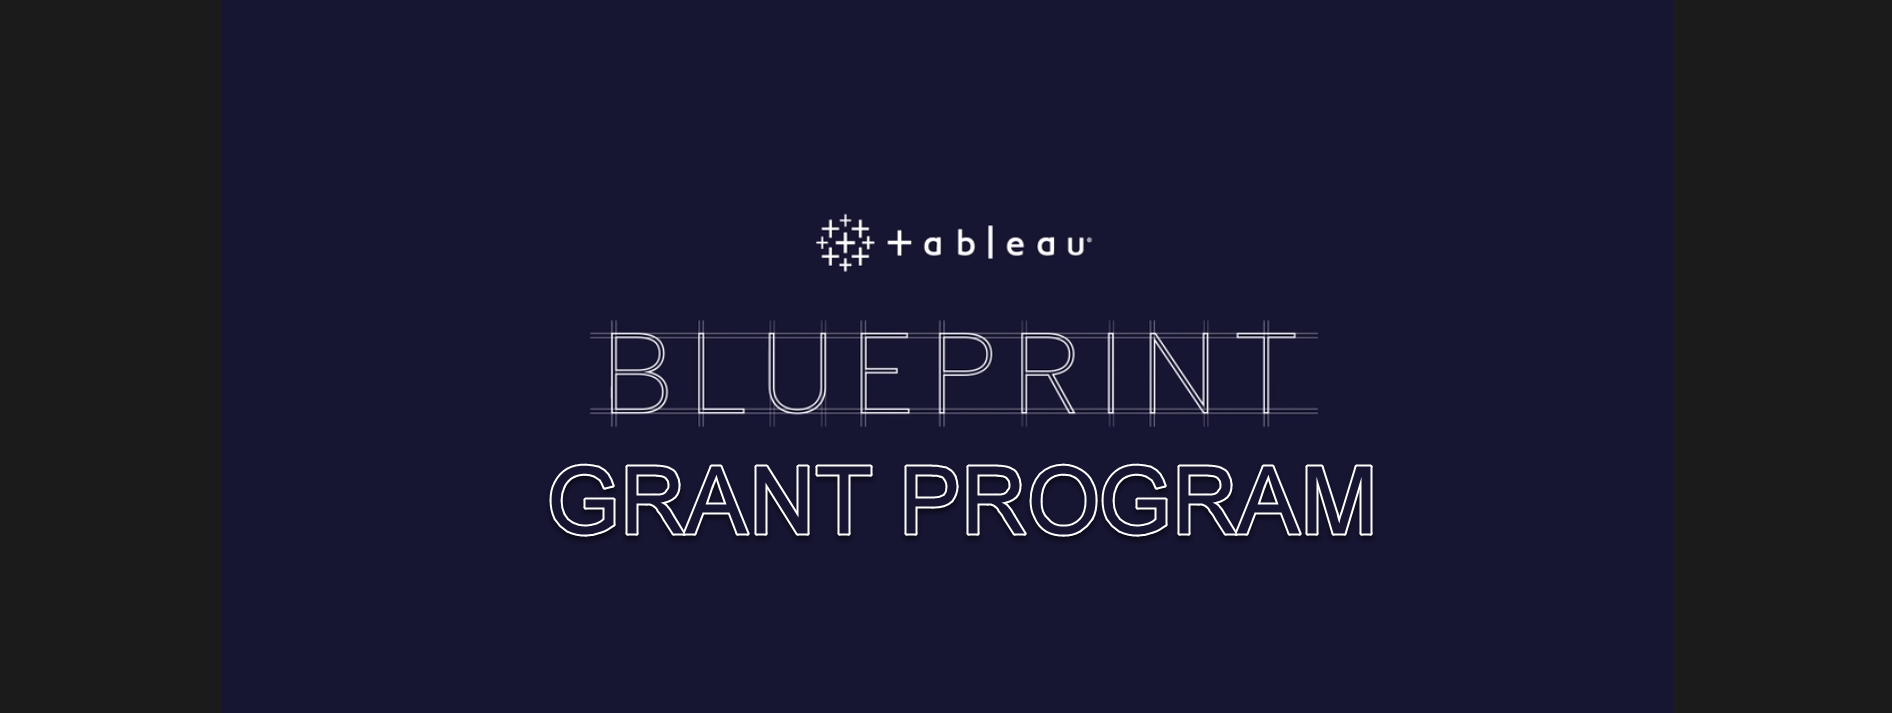
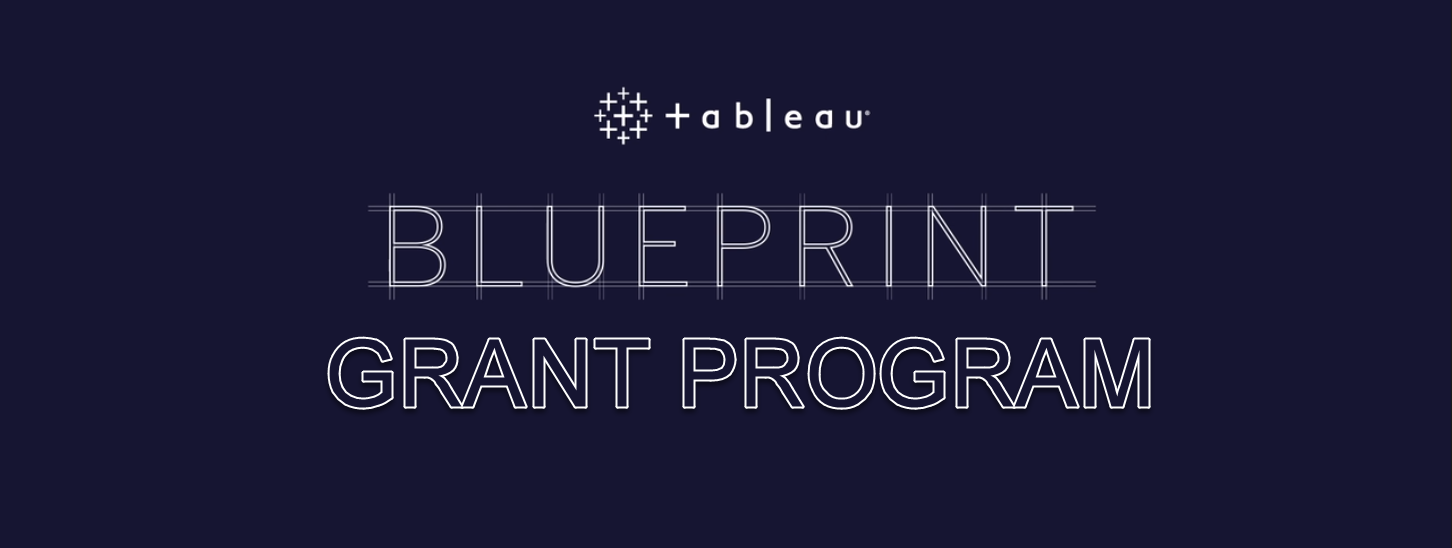
Add files via upload

Changed region(s): [[0.2169, 0.3102, 0.8058, 0.7755], [0.4029, 0.1551, 0.5888, 0.2792]]

diff --git a/BlueprintGrant.html b/BlueprintGrant.html
@@ -1,21 +1,103 @@
-
 <HTML>
 <HEAD>
   <TITLE>Tableau Blueprint Grant Program</TITLE>
   
   <link rel="shortcut icon" href="https://raw.githubusercontent.com/ggani-tableau/BlueprintGrant/db52e956366b489efdd2da2fb22392b8dec91508/tableau_logo.ico" type="image/x-icon"/>
-
+<STYLE>
+A {
+	text-decoration: none;
+	color: #7A8E95;
+	
+}		
+</STYLE>
 </HEAD>
 
 <BODY>
 
+<div style="
+	font-size: .8rem;
+	text-decoration: none;
+	box-sizing: inherit; 
+	font-family:Benton Sans Book,Helvetica,sans-serif; 
+	display: block;
+    list-style-type: disc;
+    margin-block-start: 1em;
+    margin-block-end: 1em;
+    margin-inline-start: 0px;
+    margin-inline-end: 0px;
+    padding-inline-start: 40px;     
+	color: #333;
+    line-height: 1.88; 
+	list-style: none;
+	box-sizing: inherit;
+	position:relative;
+	background-color:#ffffff;
+	Position:absolute;
+	top:150px;
+	left:-60px;
+	z-index:10;">
+	
+	<TABLE align='left' width='220px' border='1' style="
+	font-size: .8rem;
+	text-decoration: none;
+	box-sizing: inherit; 
+	font-family:Benton Sans Book,Helvetica,sans-serif; 
+	display: block;
+    list-style-type: disc;
+    margin-block-start: 1em;
+    margin-block-end: 1em;
+    margin-inline-start: 0px;
+    margin-inline-end: 0px;
+    padding-inline-start: 40px;     
+	color: #333;
+    line-height: 1.88; 
+	list-style: none;
+	box-sizing: inherit;
+	position:relative;
+	left:-30px
+	background-color:#ffffff;">
+<TR><TD>CONTENTS</TD></TR>
+<TR><TD>&nbsp;&nbsp;Blueprint Grant FAQs</a></TD></TR>
+<TR><TD>&nbsp;&nbsp;<a href="https://tableau.co1.qualtrics.com/jfe/form/SV_507As2iHfywaVKZ" target='grantWindow'>Blueprint Grant Application</a></TD></TR>
+
+<tr><td><img src='img/white_bar.png' height='15px'></td></tr>
+<TR><TD>STRATEGY GRANTS</TD></TR>
+<TR><TD>&nbsp;&nbsp;Analytics Strategy Consultation</TR></TD>
+<TR><TD>&nbsp;&nbsp;Team Development Program</TR></TD>
+<tr><td><img src='img/white_bar.png' height='15px'></td></tr>
+<TR><TD>AGILITY GRANTS</TR></TD>
+<TR><TD>&nbsp;&nbsp;Serve Health Checkup</TR></TD>
+<TR><TD>&nbsp;&nbsp;POC Technical Support</TR></TD>
+<TR><TD>&nbsp;&nbsp;Tableau Product Evaluation Grant </TR></TD>
+<tr><td><img src='img/white_bar.png' height='15px'></td></tr>
+<TR><TD>PROFICIENCY GRANTS</TR></TD>
+<TR><TD>&nbsp;&nbsp;Community Doctor Program</TR></TD>
+<TR><TD>&nbsp;&nbsp;Visual Design Workshop</TR></TD>
+<TR><TD>&nbsp;&nbsp;Hackathon \ Visualzation Competition</TR></TD>
+<TR><TD>&nbsp;&nbsp;Intern Training Program</TR></TD>
+<tr><td><img src='img/white_bar.png' height='15px'></td></tr>
+<TR><TD>COMMUNITY GRANTS</TR></TD>
+<TR><TD>&nbsp;&nbsp;Tableau User Group</TR></TD>	
+<TR><TD>&nbsp;&nbsp;Communuty Onboarding Program</TR></TD>	
+<TR><TD>&nbsp;&nbsp;Tableau Day</TR></TD>	
+
+
+</TABLE></Div>
+
+<iframe style="position:absolute; left:250px; top:175px; Height:80%; width:75%; align:right;" src="" name='grantWindow' id='grantWindow' ></iframe>
+
 <DIV>
-<TABLE width='100%' cellpadding='0' cellspacing='0' align='center' vertical-align='center' >
-<TR><TD align='center' vertical-align='center'><img src='img/logo.png' width='815px'><img src='img/white_bar.png' width='200px' height='1px'></TD></TR>
-<TR><TD align='center' vertical-align='center'><img src='img/Bar_blueprints_gry.png' width='815px'><img src='img/grey_bar.png' width='200px' height='57px'></TD></TR>
-<TR><TD align='center' vertical-align='center'><a href='index.html'><img src='img/btn_home.png' width='182px'></a><img src='img/white_bar.png' width='792px' height='51px'></TD></TR>
+<TABLE width='100%' cellpadding='0' cellspacing='0' align='left'  >
+<TR><TD colspan='2' align='left' ><img src='img/logo.png' width='792px'><img src='img/white_bar.png' width='200px' height='1px'></TD></TR>
+<TR><TD colspan='2' align='left' bgcolor='#464646'><img src='img/bar_blueprints_gry.png' width='792px'><img src='img/grey_bar.png' width='200px' height='57px'></TD></TR>
+<TR><TD colspan='2' align='left'>	<a href='index.html'><img src='img/btn_home.png' width='150px'></a><img src='img/white_bar.png' width='792px' height='51px'></TD></TR>
+<TR><TD align='right' width='300px'>
+
+
+</TD><TD align='left'></TD></TR>
 </TABLE>
 </DIV>
+
 
 
 

diff --git a/index.html b/index.html
@@ -9,13 +9,13 @@
 
 <DIV width='800px'>
 <TABLE width='100%' cellpadding='0' cellspacing='0' align='center' vertical-align='center' >
-<TR><TD align='center' vertical-align='center'>&nbsp&nbsp&nbsp&nbsp&nbsp&nbsp&nbsp&nbsp&nbsp&nbsp&nbsp&nbsp&nbsp&nbsp<img src='img/logo.png' width='815px'></TD></TR>
-<TR><TD align='center' vertical-align='center'><img src='img/Banner_Blueprintv2.png' width='815px'></TD></TR>
-<TR><TD align='center' vertical-align='center'><img src='img/Blueprint_Grant_Intro.png' width='815px'><BR><DIV style="position:relative; left:-43px; top:-69px"><A href='BlueprintGrant.html'><img width='80px' style="position:absolute" src='img/get_started_btnv2.png'></A></DIV></TD></TR>
-<TR><TD align='center' vertical-align='center'><img src='img/Blueprint_Grant_Process.png' width='815px'><BR><DIV style="position:relative; left:-112px; top:-48px"><A href='BlueprintGrant.html'><img width='224px' style="position:absolute" src='img/process_btn.png'></A></DIV></TD></TR>
-<TR><TD align='center' vertical-align='center'><img src='img/Ready_get_started.png' width='815px'><BR><DIV style="position:relative; left:-39px; top:-68px"><A href='BlueprintGrant.html'><img width='80px' style="position:absolute" src='img/get_started_btn.png'></A></DIV></TD></TR>
+<TR><TD align='center' vertical-align='center'><img src='img/logo.png' width='792px'><img src='img/white_bar.png' width='200px' height='1px'></TD></TR>
+<TR><TD align='center' vertical-align='center' bgcolor='#1B1B1B'><img src='img/Banner_Blueprint.png' width='850px'></TD></TR>
+<TR><TD align='center' vertical-align='center' bgcolor='#F2F2F2'><img src='img/Blueprint_Grant_Intro.png' width='792px'><BR><DIV style="position:relative; left:-43px; top:-69px"><A href='BlueprintGrant.html'><img width='80px' style="position:absolute" src='img/get_started_btnv2.png'></A></DIV></TD></TR>
+<TR><TD align='center' vertical-align='center'><img src='img/Blueprint_Grant_Process.png' width='792px'><BR><DIV style="position:relative; left:-112px; top:-48px"><A href='BlueprintGrant.html'><img width='224px' style="position:absolute" src='img/process_btn.png'></A></DIV></TD></TR>
+<TR><TD align='center' vertical-align='center' bgcolor='#464646'><img src='img/Ready_get_started.png' width='792px'><BR><DIV style="position:relative; left:-39px; top:-68px"><A href='BlueprintGrant.html'><img width='80px' style="position:absolute" src='img/get_started_btn.png'></A></DIV></TD></TR>
 
-<TR><TD align='center' vertical-align='center'><img src='img/footnote_banner.png' width='815px'></TD></TR>
+<TR><TD align='center' vertical-align='center' bgcolor='#1B1B1B'><img src='img/footnote_banner.png' width='792px'></TD></TR>
 <TR><TD align='center' vertical-align='center'></TD></TR>
 </TABLE>
 </DIV>
